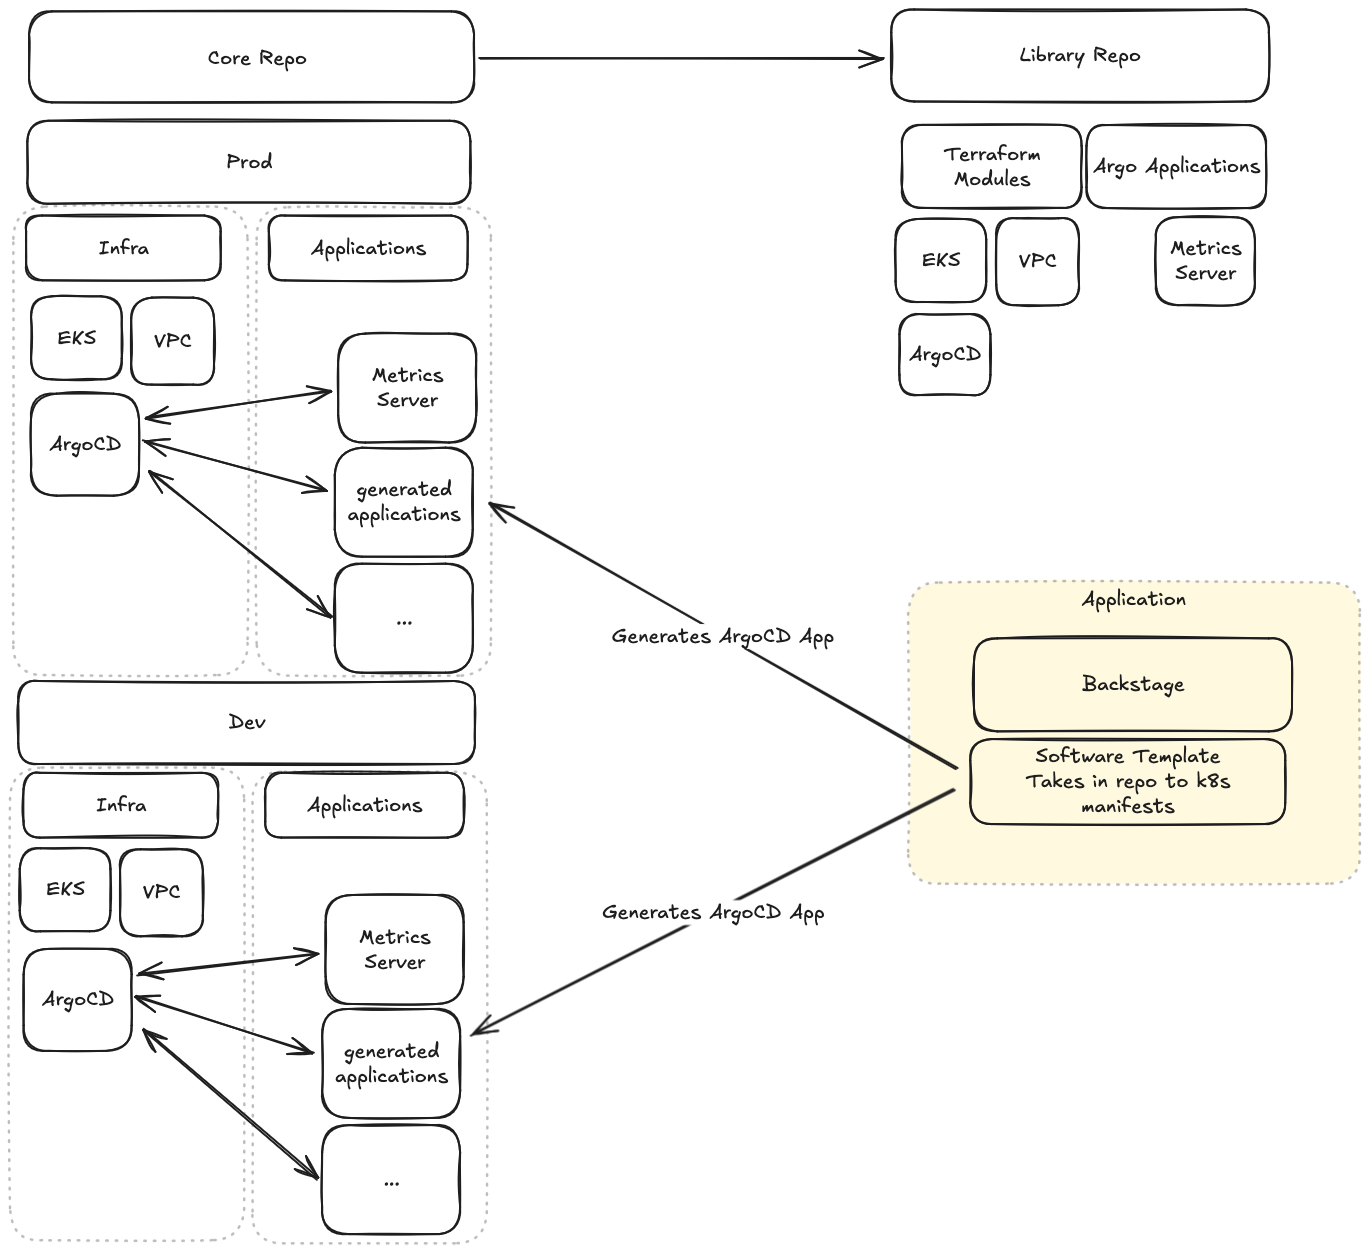
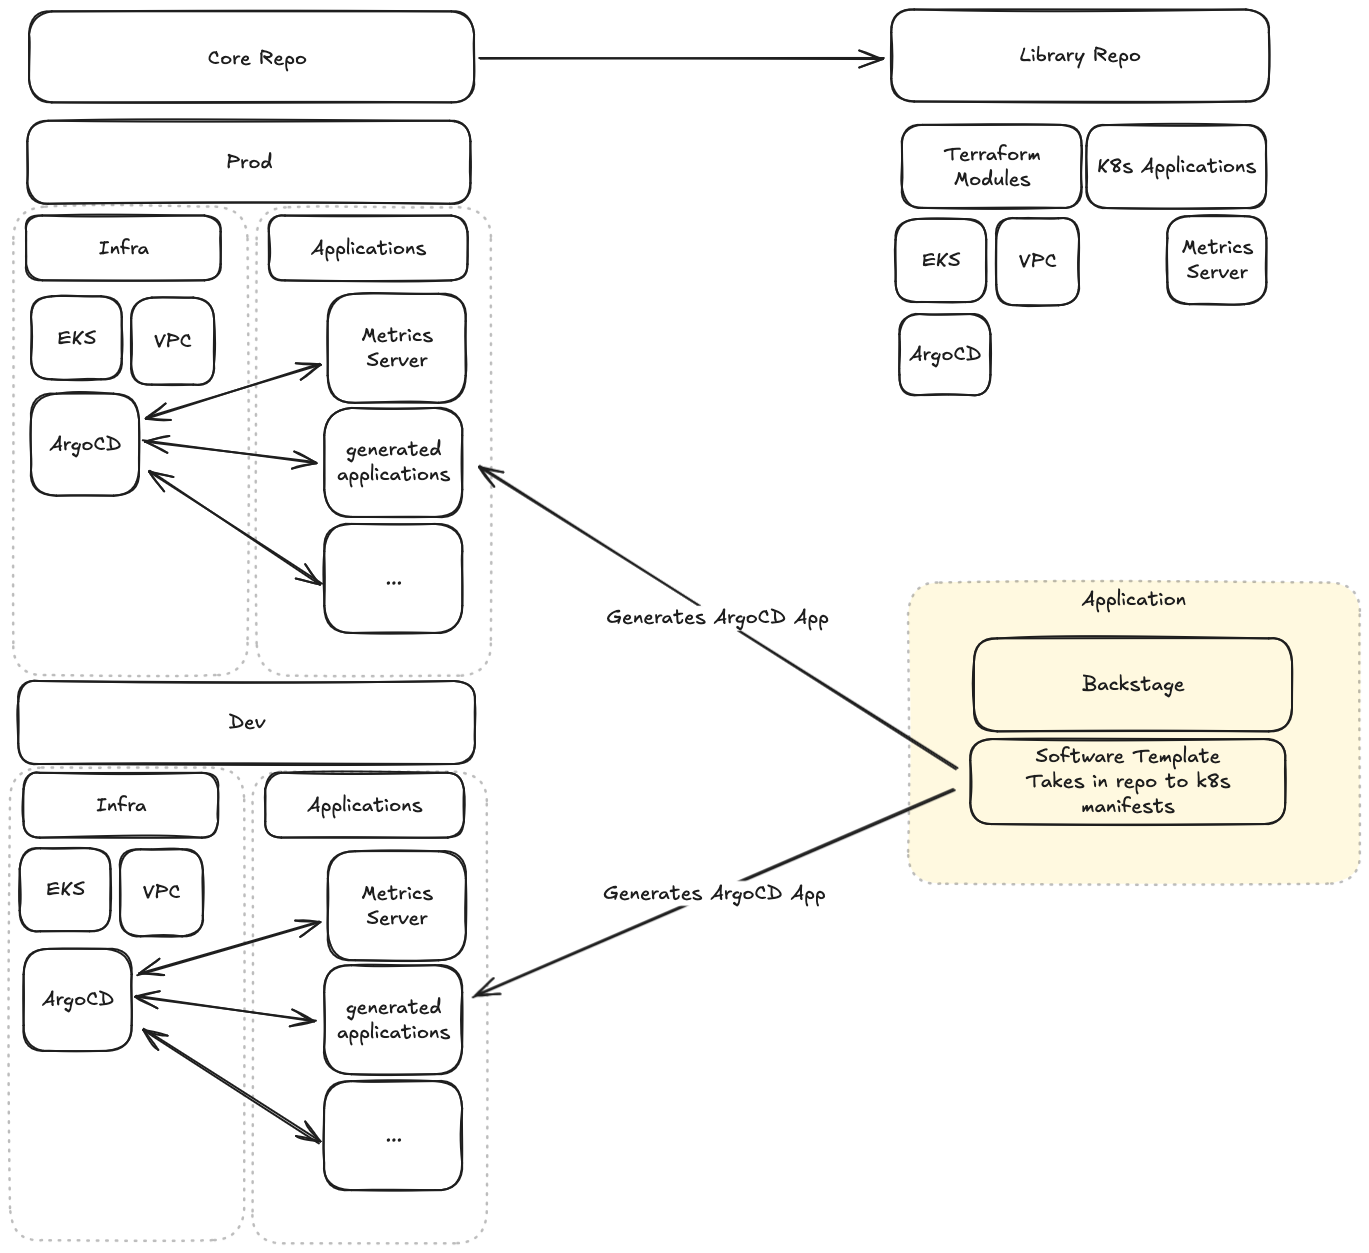
fix: Updated the platform exercise 3 of the platform section after working through it

diff --git a/docs/9-platform-engineering/9.2-platforms.md b/docs/9-platform-engineering/9.2-platforms.md
@@ -36,6 +36,7 @@ your versioned components.
 ![tvp architecture](./img9/tvp-arch.png ':class=img-center :alt=TVP Architecture')
 
 ### Library Repo
+
 This repo will hold versioned Terraform modules and Kubernetes manifests that form the building blocks of our platform. These are split from the deploy repo so that platform teams can develop these components separately without affecting production environments. While ArgoCD will manage most Kubernetes applications, some foundational components (like ArgoCD itself) need to be bootstrapped with Terraform. Each component is independently versioned, allowing teams to update and test components without impacting the entire platform.
 
 Your library repo should contain well-documented, reusable modules and manifests that follow infrastructure-as-code best practices. Teams can reference specific versions of these components, ensuring consistent and reproducible deployments across environments.
@@ -80,9 +81,10 @@ Your Terraform should be linted, formatted, and validated. Merging to main shoul
 you should have tags like `eks/v0.1.0` and `metrics-server/v0.0.1`. While specific naming conventions are flexible, the principle is that modules should be versioned
 independently. We don't want a change merged to the `vpc` module causing a version bump on the `argocd` module.
 
-?> The Hashicorp EKS tutorial is a good starting point for modeling your modules: https://developer.hashicorp.com/terraform/tutorials/kubernetes/eks
+?> The [Hashicorp EKS tutorial](https://developer.hashicorp.com/terraform/tutorials/kubernetes/eks) is a good starting point for modeling your modules
 
 ### Deploy Repo
+
 This repo orchestrates the deployment of your platform by composing versioned components from the library repo. Using Terragrunt, a lightweight wrapper around Terraform, we manage infrastructure deployments with improved code reuse and reduced configuration complexity. The separation between library and deploy repos creates a clean distinction between defining components and implementing them, allowing platform teams to maintain consistent standards while staying flexible.
 
 The deploy repo structure separates infrastructure from applications, making it clear where and how components are deployed. Infrastructure is managed through Terragrunt, while applications are deployed using Kustomize configurations that reference specific versions from the library repo. This approach provides a streamlined path for both platform engineers managing infrastructure and application teams deploying workloads.
@@ -111,13 +113,16 @@ The deploy repo structure separates infrastructure from applications, making it 
 │   │       └── terragrunt.hcl
 │   └── applications
 │       ├── metrics-server
+│       │   └── application.yaml  # Argo Application referencing the deploy repo
 │       │   └── kustomization.yaml  # References metrics-server from library repo
 │       └── hello-world
 │           └── kustomization.yaml  # References app team's repository
+│           └── application.yaml  # Argo Application referencing the deploy repo
 └── terragrunt.hcl
 ```
 
 ## Exercise 1
+
 Before we can onboard an application we need to create our TVP. We will start by setting up our repos and building out a
 repeatable EKS cluster.
 - Create the deploy repo:
@@ -131,16 +136,28 @@ repeatable EKS cluster.
 - Using Terragrunt orchestrate and deploy your VPC and EKS module in the deploy repo
 - Verify that everyone can configure their kubeconfig and authenticate to the EKS module
 
+?> Make both the deploy and the library repo private. This is just out of an abundance of caution as you will have workflows that will likely have very elevated permissions.
+
 ## Exercise 2
-With a working EKS cluster we need to configure ArgoCD on the cluster.
+
+Wonderful now you have an EKS cluster stood up with IaC. Now we are going to add ArgoCD to the cluster as our preferred method for deploying Kubernetes applications.
+First off what is ArgoCD? ArgoCD is a GitOps controller that manages Kubernetes resources by treating Git as the single source of truth. Unlike traditional CI/CD push-based deployments,
+ArgoCD uses a pull-based model where it runs inside your cluster and continuously monitors your Git repositories for changes. When it detects drift between the desired state
+in Git and the actual state in the cluster, it automatically reconciles the differences. This approach offers several key advantages: enhanced security since no external
+system needs direct cluster access, better auditability as all changes are tracked in Git, and improved reliability through constant state reconciliation.
+ArgoCD also provides a powerful UI for visualizing your applications' deployment status and health, supports multiple config management tools like Helm and Kustomize,
+and can manage applications across multiple clusters from a single interface. Its declarative nature aligns perfectly with Kubernetes' own paradigms, making it a natural fit for cloud-native deployments.
+
 - Create and install ArgoCD into the cluster through a Terrafrom module (write this in the Library repo)
 - Actually Deploy and ArgoCD into the cluster via the Deploy repo with Terragrunt
 - Verify that both of you can access the ArgoCD UI by portforwarding the `argocd-service`
 
-#### UNCHARTED TERRITORY
+?> Default admin password is stored as a Kubernetes secret on the cluster
+
 ## Exercise 3
-Now that we have stood up ArgoCD we can let argo manage our k8s applications. There are many core applications that all
-application teams are going to want to have access to. Some examples of these are:
+
+Now that we have stood up ArgoCD we can let Argo manage our Kubernetes applications. There are many core applications that all
+application teams are going to want to have access. These applications generally fall to the platform teams. Some examples of these are:
 - Metrics Server
 - OTEL Operators & Collectors
 - AWS Load Balancer Controller
@@ -152,19 +169,25 @@ application teams are going to want to have access to. Some examples of these ar
 etc
 
 The list is long but the thing to note here is that these are all Kubernetes applications that are deployed ultimately
-via manifest files (Helm charts just result in manifest files). So given our cluster now has a configured Kubernetes GitOps Controller
+via manifest files (Helm charts just result in manifest files). So given our cluster now has a Kubernetes GitOps Controller
 installed and configured we are going to let ArgoCD own the deployment of these Kubernetes applications.
 
 - In your library repo create a new directory `applications/metrics-server`
-- Create an Argo Application (CR you get with Argo) that for metrics-server
-- Update your CI workflows to version your k8s applications
-- Assuming you are not authoring your metrics-server manifests (pulling from remote, helm chart, whatever). Make sure you add some convienet
-way for platform engineers to get the new versions (Makefile?)
-- In your deploy repo through a kustomization.yaml reference your versioned Argo Application
-- Update CD in your Deploy repo to release the Argo Application to your cluster
-- Verify this works
+  - Using what you have learned add file(s) that will source manifests from a pinned version of the [official repo for metrics-server](https://github.com/kubernetes-sigs/metrics-server)
+  > Verify that pushing the metrics-server application to your library repo generates a tagged version in the library repo
+- In your deploy repo create a new directory `applications/metrics-server` under your environment (ie: `prod/applications/metrics-server`)
+- Use Kustomize to reference your versioned application in the library repo
+- Next create an Argo Application manifest that will point to your deploy repo at `applications/metrics-server`
+- Add a new workflow to your deploy repo that will apply the Argo Application manifests
+- Verify in the Argo UI that metrics-server was picked up, synced, and healthy.
+- Try changing the version of metrics server that you have pinned in your library repo and roll that change out the the cluster.
+
+?> [ArgoCD's Credential Templates](https://argo-cd.readthedocs.io/en/stable/user-guide/private-repositories/#credential-templates) are an easy way to authenticate to private/internal repos
+
+#### UNCHARTED TERRITORY
 
 ## Exercise 4
+
 We have the framework for a platform now we need a way for teams to use our platform. In this exercise we will create a backstage template that
 injects a new Argo Application into our Deploy repo that references an external manifests repo.
 - Create a simple Hello World NodeJS application. Containerize it and publish the resulting image to a contrainer registry
